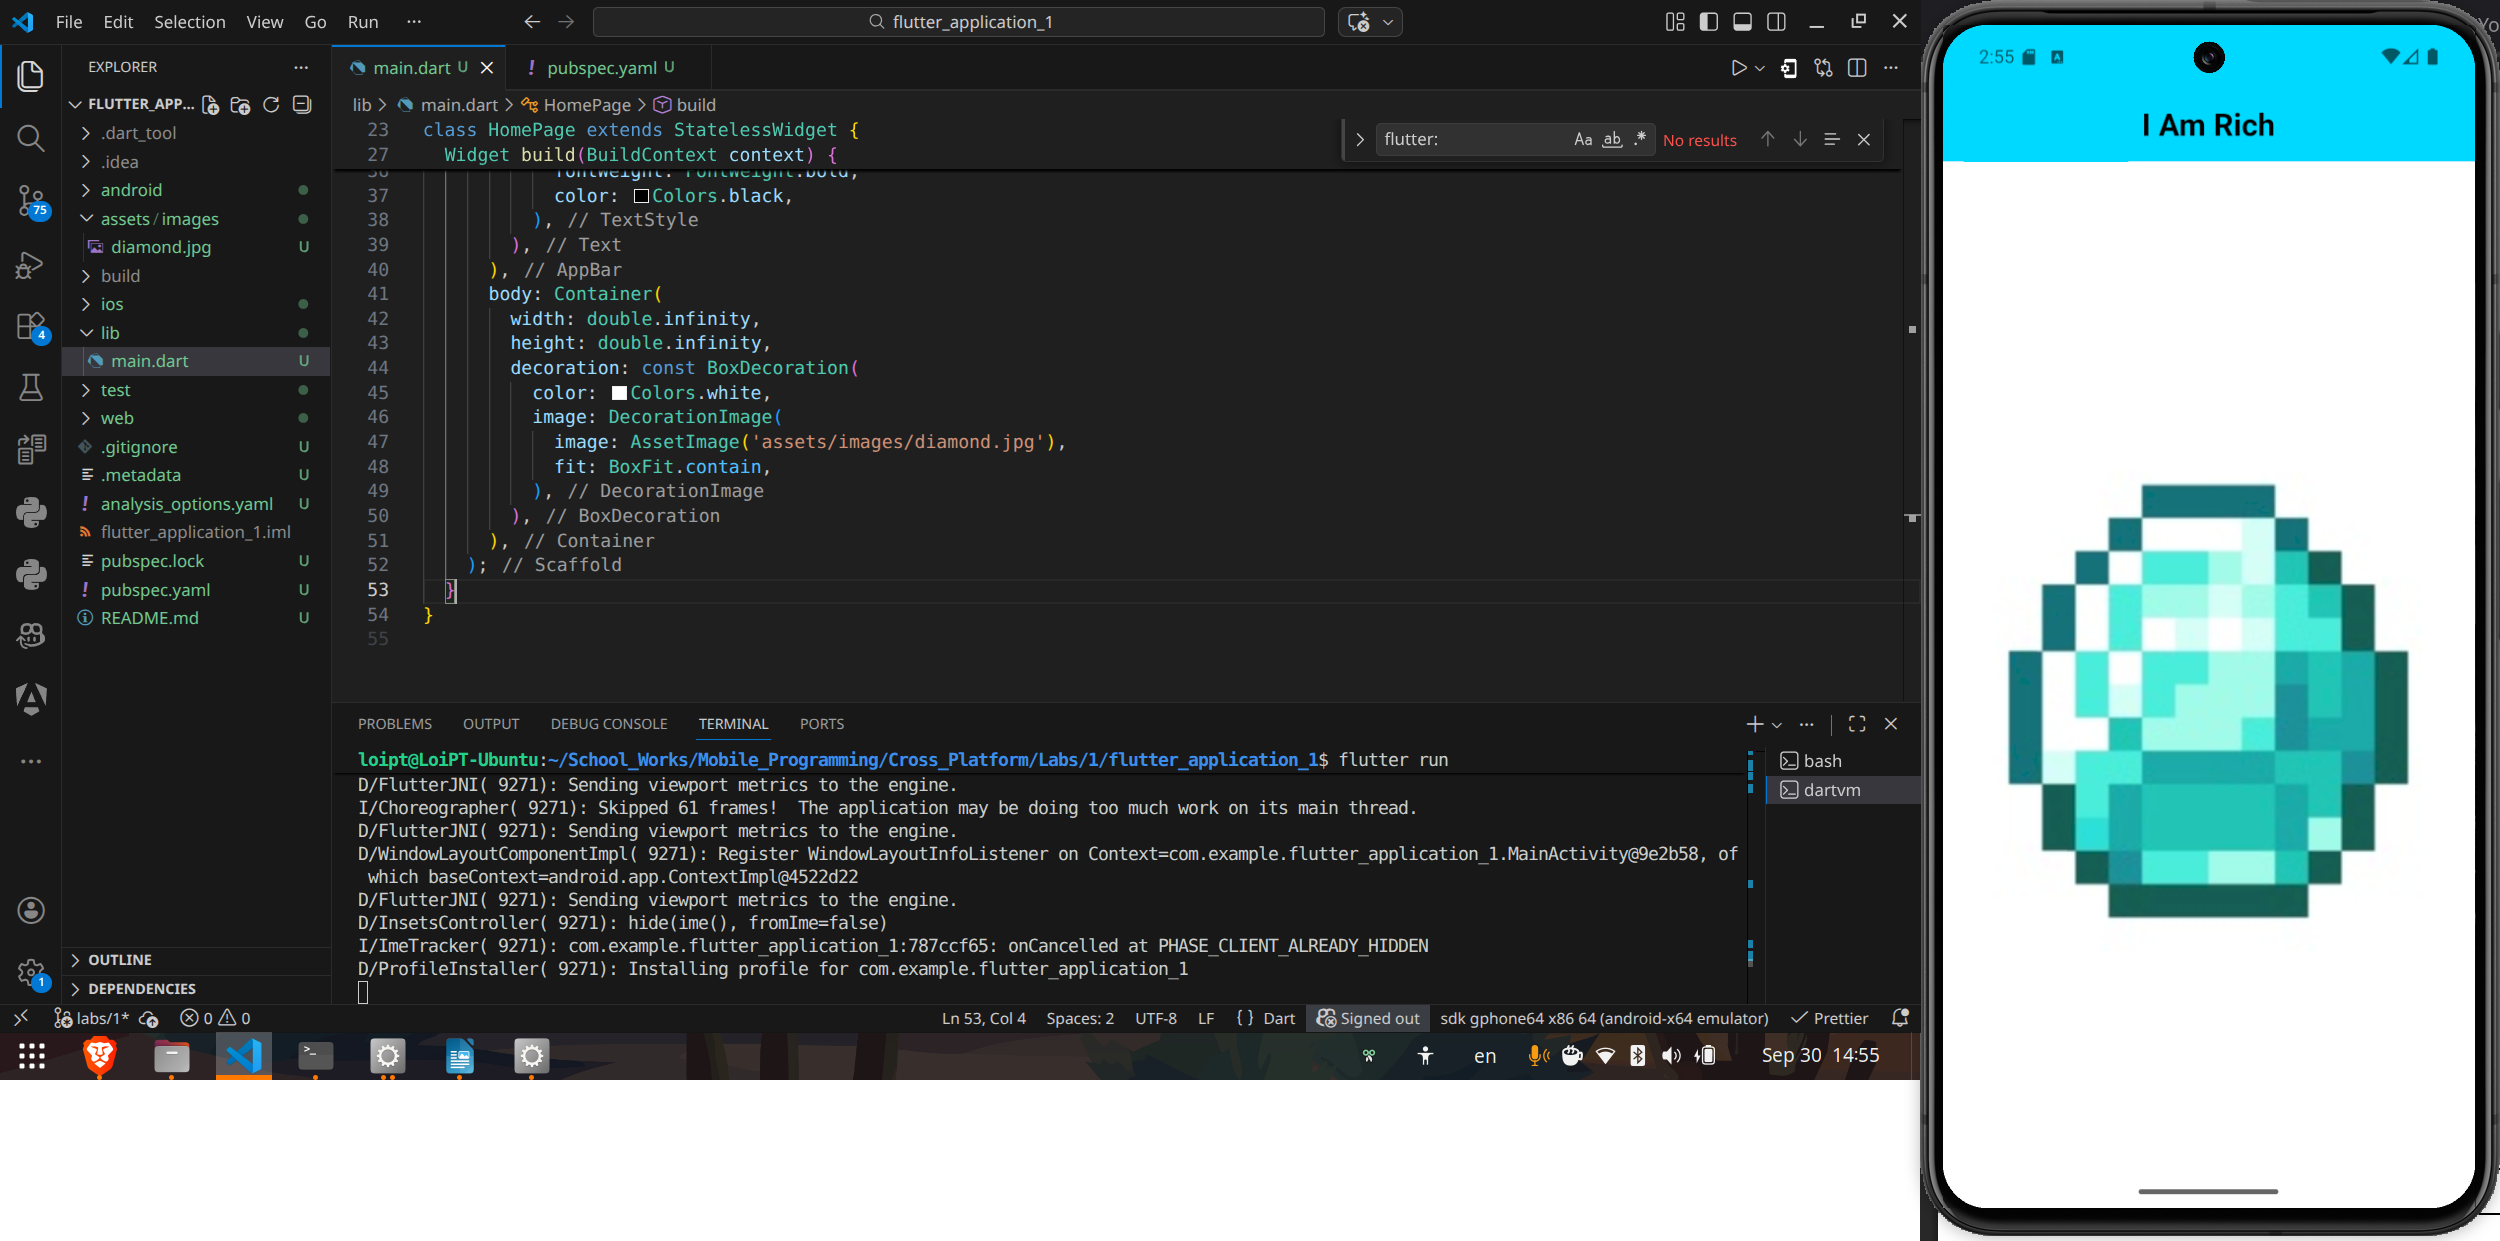
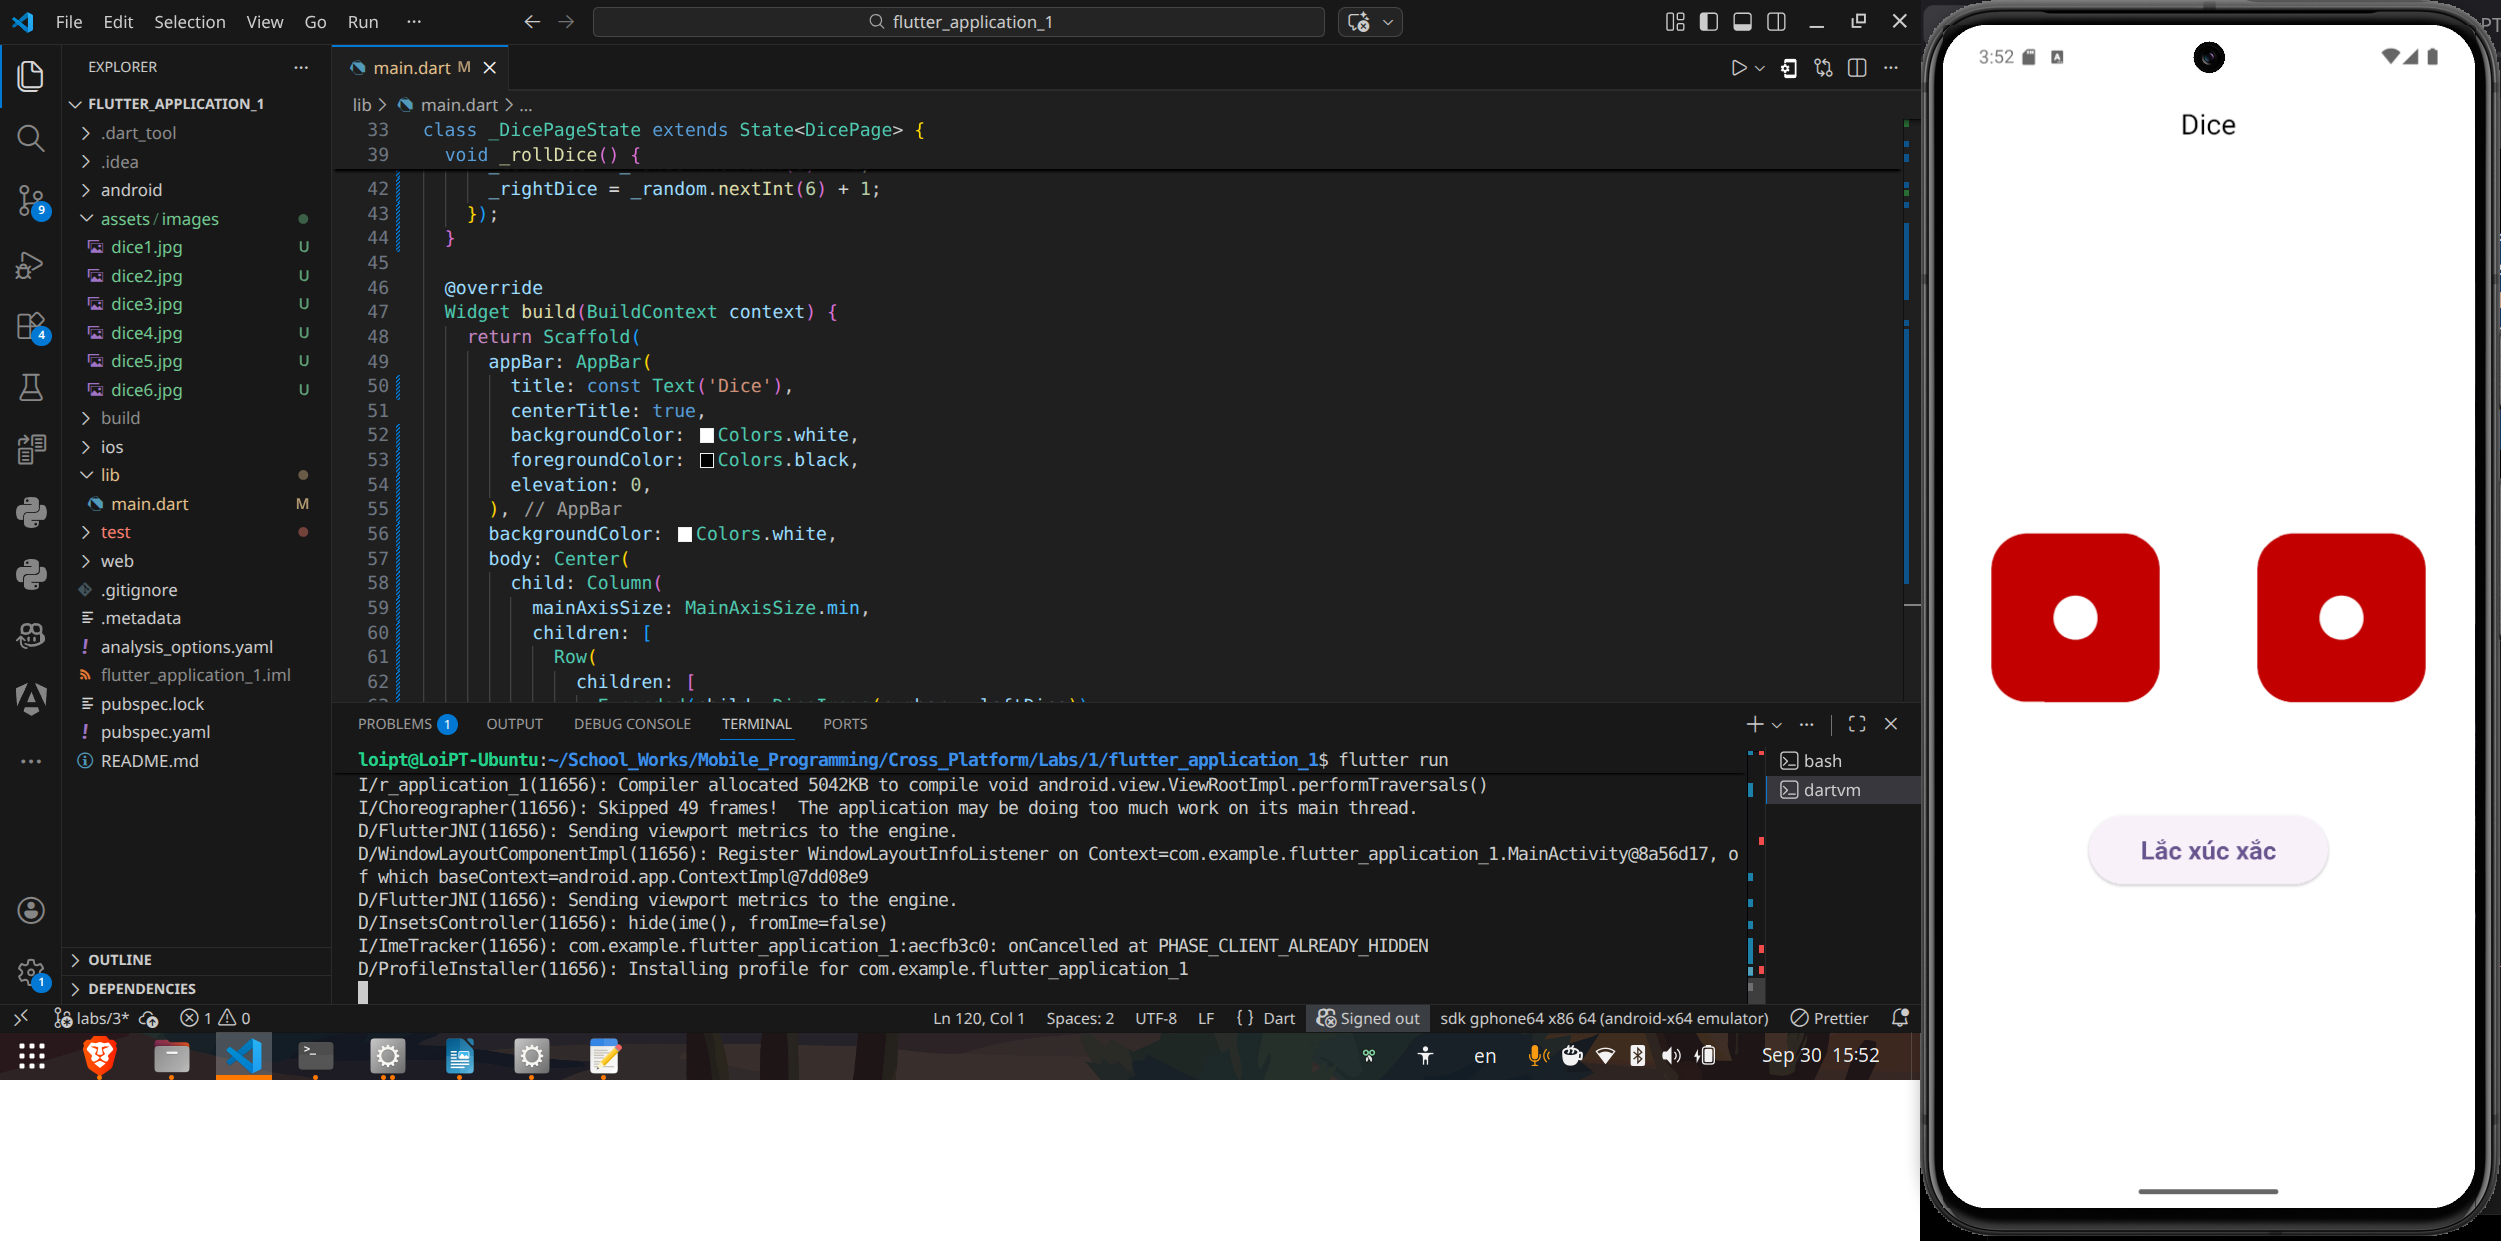
feat: Lab 3

diff --git a/1/flutter_application_1/lib/main.dart b/1/flutter_application_1/lib/main.dart
@@ -1,52 +1,117 @@
+import 'dart:math';
+
 import 'package:flutter/material.dart';
 
 void main() {
-  runApp(const Lab1());
+  runApp(const DiceApp());
 }
 
-class Lab1 extends StatelessWidget {
-  const Lab1({super.key});
+class DiceApp extends StatelessWidget {
+  const DiceApp({super.key});
 
   @override
   Widget build(BuildContext context) {
     return MaterialApp(
       debugShowCheckedModeBanner: false,
-      title: 'I Am Rich',
+      title: 'Dice',
       theme: ThemeData(
+        useMaterial3: true,
         colorScheme: ColorScheme.fromSeed(seedColor: Colors.deepPurple),
       ),
-      home: const HomePage(),
+      home: const DicePage(),
     );
   }
 }
 
-class HomePage extends StatelessWidget {
-  const HomePage({super.key});
+class DicePage extends StatefulWidget {
+  const DicePage({super.key});
+
+  @override
+  State<DicePage> createState() => _DicePageState();
+}
+
+class _DicePageState extends State<DicePage> {
+  final Random _random = Random();
+
+  int _leftDice = 1;
+  int _rightDice = 1;
+
+  void _rollDice() {
+    setState(() {
+      _leftDice = _random.nextInt(6) + 1;
+      _rightDice = _random.nextInt(6) + 1;
+    });
+  }
 
   @override
   Widget build(BuildContext context) {
     return Scaffold(
       appBar: AppBar(
-        backgroundColor: const Color.fromARGB(255, 0, 217, 255),
+        title: const Text('Dice'),
         centerTitle: true,
-        title: const Text(
-          'I Am Rich',
-          style: TextStyle(
-            fontSize: 24,
-            fontWeight: FontWeight.bold,
-            color: Colors.black,
-          ),
+        backgroundColor: Colors.white,
+        foregroundColor: Colors.black,
+        elevation: 0,
+      ),
+      backgroundColor: Colors.white,
+      body: Center(
+        child: Column(
+          mainAxisSize: MainAxisSize.min,
+          children: [
+            Row(
+              children: [
+                Expanded(child: DiceImage(number: _leftDice)),
+                Expanded(child: DiceImage(number: _rightDice)),
+              ],
+            ),
+
+            const SizedBox(height: 50),
+
+            ElevatedButton(
+              onPressed: _rollDice,
+              style: ElevatedButton.styleFrom(
+                padding: const EdgeInsets.symmetric(
+                  horizontal: 40,
+                  vertical: 15,
+                ),
+                textStyle: const TextStyle(
+                  fontSize: 20,
+                  fontWeight: FontWeight.bold,
+                ),
+              ),
+              child: const Text('Lắc xúc xắc'),
+            ),
+          ],
         ),
       ),
-      body: Container(
-        width: double.infinity,
-        height: double.infinity,
-        decoration: const BoxDecoration(
-          color: Colors.white,
-          image: DecorationImage(
-            image: AssetImage('assets/images/diamond.jpg'),
-            fit: BoxFit.contain,
-          ),
+    );
+  }
+}
+
+class DiceImage extends StatelessWidget {
+  final int number;
+
+  const DiceImage({super.key, required this.number});
+
+  @override
+  Widget build(BuildContext context) {
+    return Padding(
+      padding: const EdgeInsets.all(16),
+      child: AspectRatio(
+        aspectRatio: 1,
+        child: Image.asset(
+          'assets/images/dice$number.jpg',
+          fit: BoxFit.contain,
+          errorBuilder: (context, error, stackTrace) {
+            return Container(
+              color: Colors.grey.shade300,
+              alignment: Alignment.center,
+              child: const Text(
+                'Image not found',
+                style: TextStyle(color: Colors.red),
+              ),
+            );
+          },
         ),
       ),
     );
